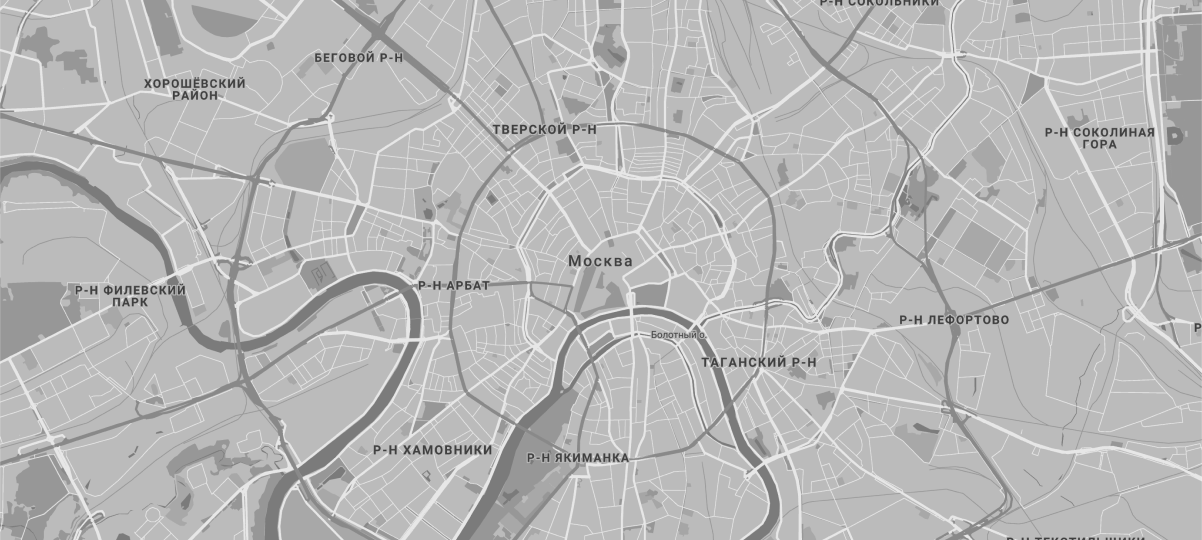
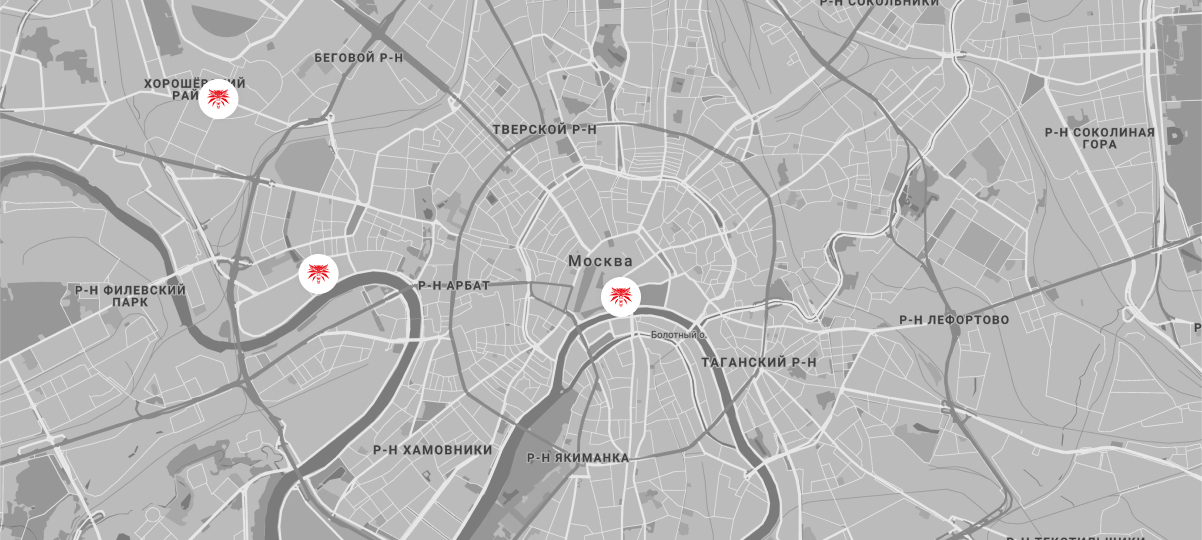
markup | feat: добавил блоки cast. footage, map

Changed region(s): [[0.1539, 0.1481, 0.2155, 0.237], [0.4925, 0.5037, 0.5541, 0.5926], [0.2463, 0.4741, 0.3078, 0.563]]

diff --git a/src/assets/scss/app.scss b/src/assets/scss/app.scss
@@ -4,7 +4,58 @@
 @import 'fonts';
 @import 'variables';
 @import 'mixins';
+@import 'functions';
+
+:root {
+  --white: rgba(255, 255, 255, 1);
+  --black: rgb(0, 0, 0);
+}
+
+html {
+  box-sizing: border-box;
+}
+
+*,
+::before,
+::after {
+  box-sizing: inherit;
+}
 
 body {
-  font-family: 'Open Sans', sans-serif;
+  min-width: 50px;
+  margin: 0;
+  padding: 0;
+
+  font-family: 'Futura PT', 'Arial', sans-serif;
+  font-size: $base-font-size;
+  line-height: 24px;
+  font-weight: 600;
+  color: var(--black);
+
+  background-color: var(--white);
+}
+
+img {
+  width: 100%;
+  height: auto;
+}
+
+// безопасное скрытие элемента
+.visually-hidden:not(:focus):not(:active),
+input[type='checkbox'].visually-hidden,
+input[type='radio'].visually-hidden {
+  position: absolute;
+  width: 1px;
+  height: 1px;
+  margin: -1px;
+  border: 0;
+  padding: 0;
+  white-space: nowrap;
+  clip-path: inset(100%);
+  clip: rect(0 0 0 0);
+  overflow: hidden;
+}
+
+.test {
+  font-size: rem(56);
 }

diff --git a/src/components/features/Promo/index.tsx b/src/components/features/Promo/index.tsx
@@ -1,0 +1,25 @@
+import { FC } from 'react';
+
+import HeaderLogo from 'assets/images/logo.png';
+import { useTitle } from 'ahooks';
+import { appName } from 'constants/app';
+
+import classes from './MainPage.module.scss';
+import { Button } from 'components/shared/Button';
+
+const Promo: FC = () => (
+  <section>
+    <div>
+      <h2 className="test">Сериал Ведьмак</h2>
+
+      <p>
+        Геральт из Ривии, наемный охотник за чудовищами, перенесший мутации, идет навстречу своей судьбе в неспокойном
+        мире, где люди часто оказываются куда коварнее чудовищ.
+      </p>
+
+      <Button>Смотреть сериал</Button>
+    </div>
+  </section>
+);
+
+export default Promo;

diff --git a/src/pages/MainPage/index.tsx b/src/pages/MainPage/index.tsx
@@ -5,11 +5,26 @@ import { appName } from 'constants/app';
 
 import classes from './MainPage.module.scss';
 import Header from 'components/shared/Header';
+import Promo from 'components/features/Promo';
+import Cast from 'components/features/Cast';
+import Footage from 'components/features/Footage';
+import Map from 'components/features/Map';
 
 const MainPage: FC = () => {
   useTitle(`${appName} | Главная`);
 
-  return <div>main page</div>;
+  return (
+    <main>
+      <h1 className="visually-hidden">
+        Ведьмак — мистический сериал, вышедший на телеканале Netflix, по циклу романов польского писателя.
+      </h1>
+
+      <Promo />
+      <Cast />
+      <Footage />
+      <Map />
+    </main>
+  );
 };
 
 export default MainPage;

diff --git a/src/components/features/Cast/index.tsx b/src/components/features/Cast/index.tsx
@@ -1,0 +1,29 @@
+import { FC } from 'react';
+
+import geralt from 'assets/images/avatars/geralt.jpg';
+import geraltWebP from 'assets/images/avatars/geralt.webp';
+
+const Cast: FC = () => (
+  <section>
+    <h2>Актерский состав</h2>
+
+    <div>
+      <button>Вперед</button>
+      <button>Назад</button>
+    </div>
+
+    <article>
+      <picture>
+        <source srcSet={geraltWebP} type="image/webp" />
+        <img alt="geralt" src={geralt} />
+      </picture>
+
+      <p>
+        <span>Геральт</span>
+        <span>Генри Кавилл</span>
+      </p>
+    </article>
+  </section>
+);
+
+export default Cast;

diff --git a/src/components/features/Footage/index.tsx b/src/components/features/Footage/index.tsx
@@ -1,0 +1,15 @@
+import { FC } from 'react';
+
+import geralt from 'assets/images/avatars/geralt.jpg';
+import geraltWebP from 'assets/images/avatars/geralt.webp';
+import { Button } from 'components/shared/Button';
+
+const Footage: FC = () => (
+  <section>
+    <h2>Кадры со съемок</h2>
+
+    <Button>Показать еще</Button>
+  </section>
+);
+
+export default Footage;

diff --git a/src/components/features/Map/index.tsx b/src/components/features/Map/index.tsx
@@ -1,0 +1,15 @@
+import { FC } from 'react';
+
+import geraltWebP from 'assets/images/avatars/geralt.webp';
+import map from 'assets/images/map.png';
+import { Button } from 'components/shared/Button';
+
+const Map: FC = () => (
+  <section>
+    <h2>Магазины мерча ведьмака</h2>
+
+    <img alt="Карта" src={map} />
+  </section>
+);
+
+export default Map;

diff --git a/src/assets/scss/_functions.scss b/src/assets/scss/_functions.scss
@@ -1,0 +1,11 @@
+@function rem($pixels, $context: $base-font-size) {
+  @if (unitless($pixels)) {
+    $pixels: $pixels * 1px;
+  }
+
+  @if (unitless($context)) {
+    $context: $context * 1px;
+  }
+
+  @return $pixels / $context * 1rem;
+}

diff --git a/global.d.ts b/global.d.ts
@@ -15,6 +15,11 @@ declare module '*.png' {
   export default src;
 }
 
+declare module '*.webp' {
+  const src: string;
+  export default src;
+}
+
 declare module '*.svg' {
   import * as React from 'react';
 

diff --git a/webpack/presets/images-preset.js b/webpack/presets/images-preset.js
@@ -5,7 +5,7 @@
  */
 function getImagesPreset() {
   return {
-    test: /\.(jpe?g|png|gif)$/i,
+    test: /\.(jpe?g|png|webp|gif)$/i,
     type: 'asset/resource',
   };
 }

diff --git a/src/assets/scss/_variables.scss b/src/assets/scss/_variables.scss
@@ -5,8 +5,4 @@ $lg: 992px;
 $xl: 1200px;
 $xxl: 1400px;
 
-$gray: #919191;
-$gray-1: #f0f2f5;
-
-$red: #ff0000;
-$radius-big: 5px;
+$base-font-size: 16px;
